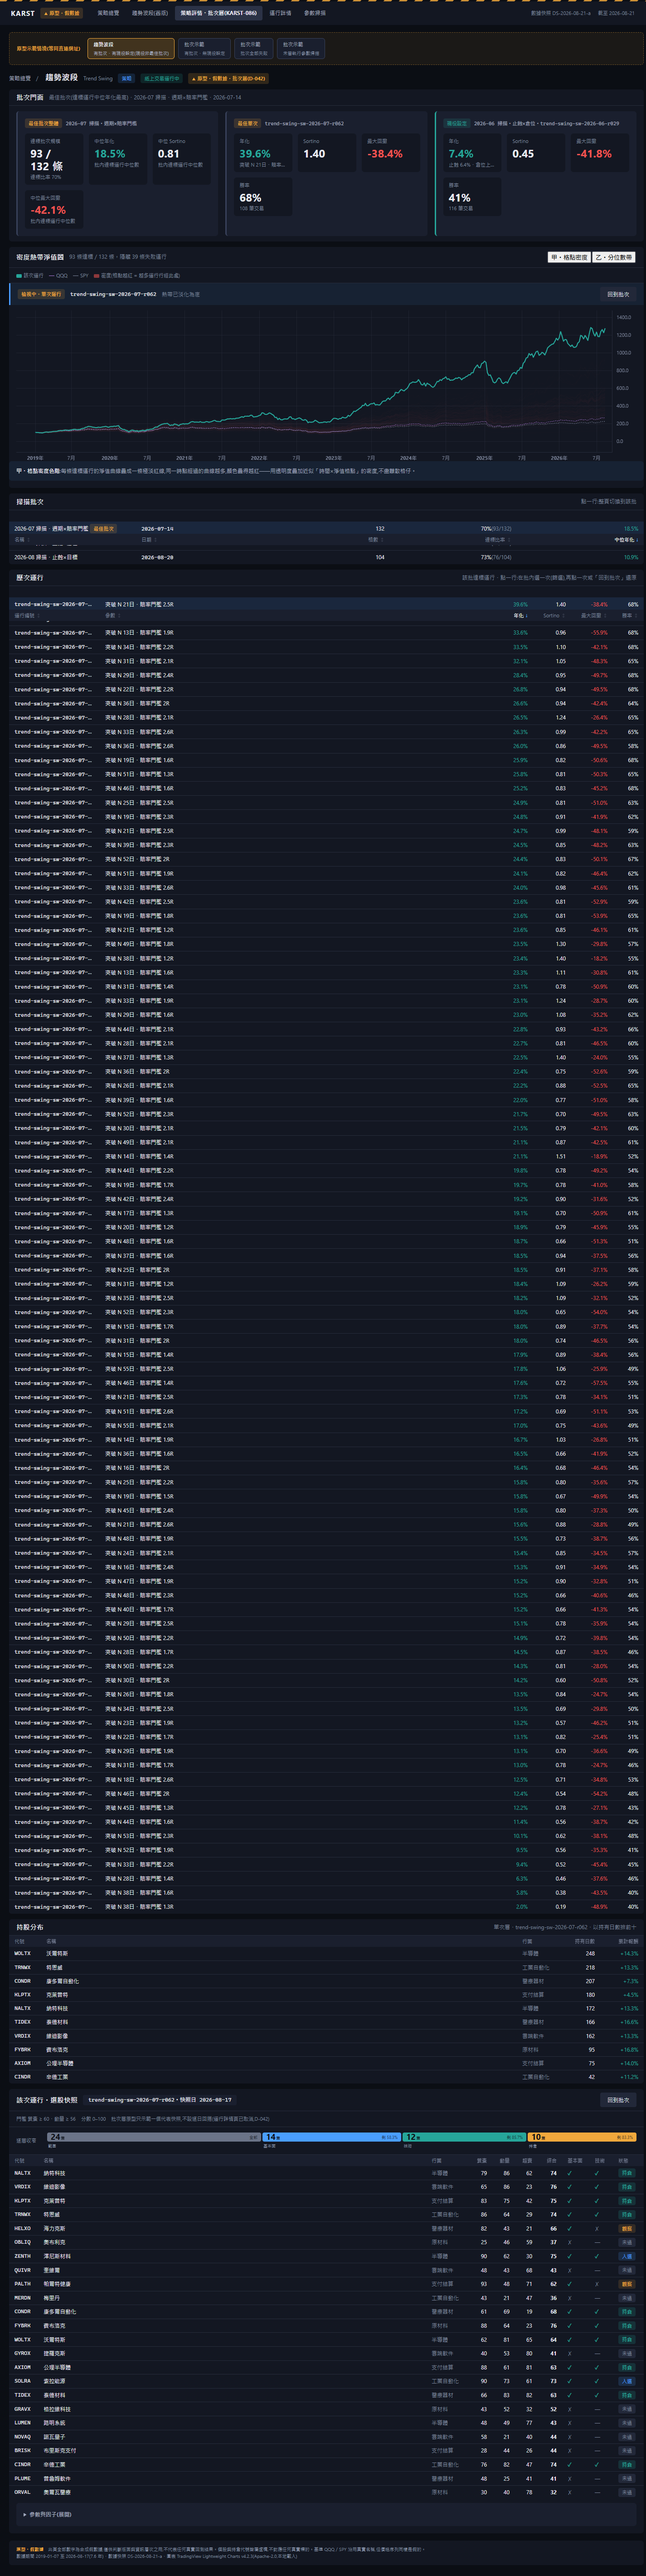
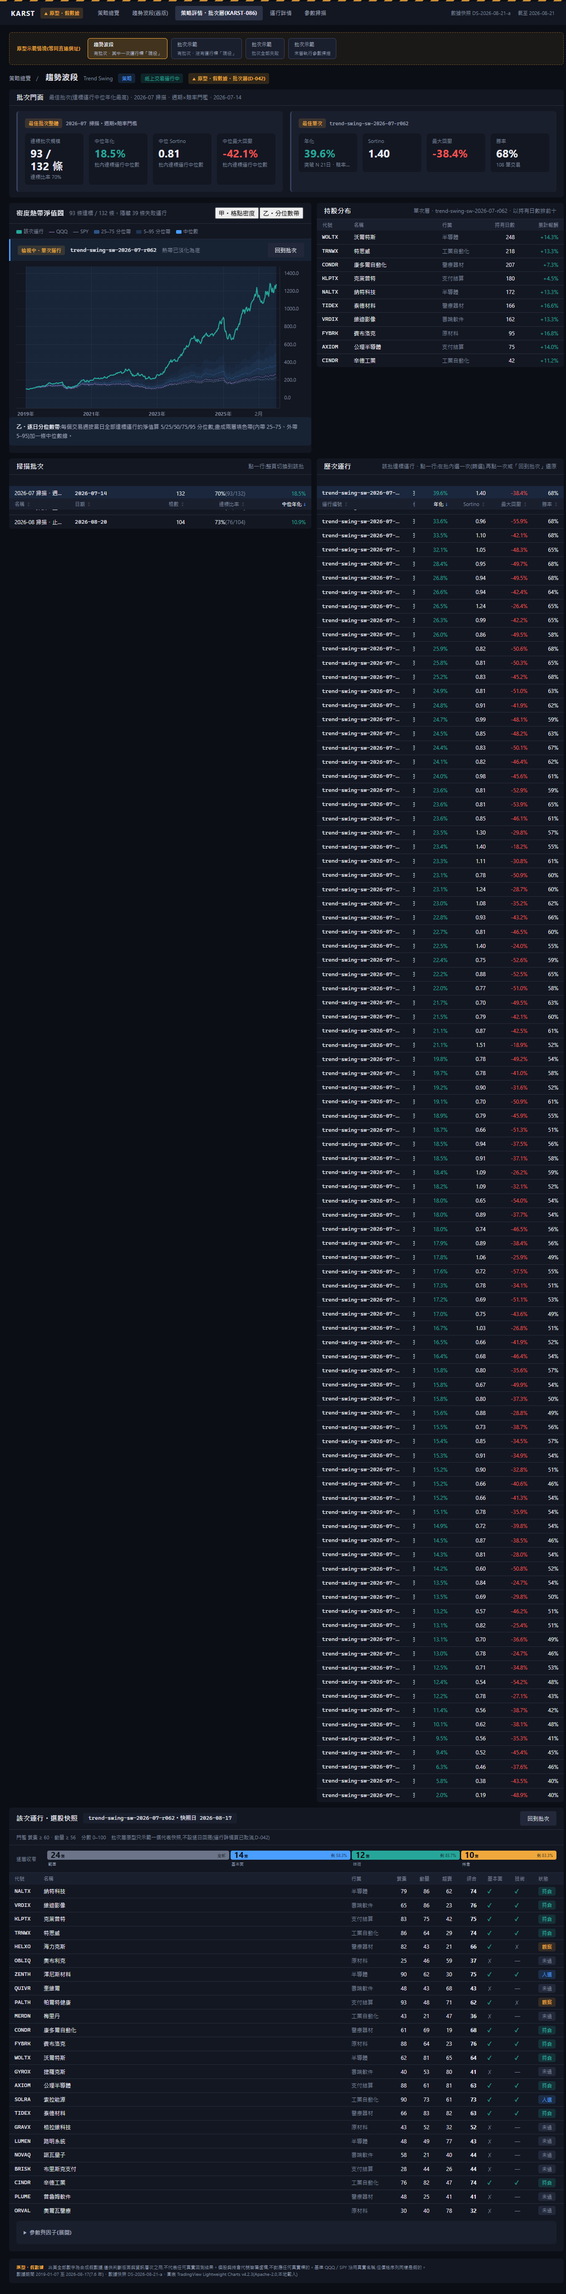
KARST-086 原型三項改版(兩欄併排、去現役設定卡、甲為預設);開票 KARST-087/088(架構審視候選二/五)

Changed region(s): [[0.0, 0.0, 1.0, 0.9939], [0.4876, 0.9628, 0.518, 0.9939]]

diff --git a/prototype/strategy-batch.html b/prototype/strategy-batch.html
@@ -33,7 +33,7 @@
 
   <div class="sp-stack" id="sp-stack" hidden>
 
-    <!-- ============ 門面:最佳批次整體 + 該批最佳單次 + 現役設定(如有) ============ -->
+    <!-- ============ 門面:最佳批次整體 + 該批最佳單次(「現役設定」卡已依用戶 2026-08-30 裁決拿走) ============ -->
     <section class="sp-panel" aria-labelledby="facade-title">
       <div class="sp-head">
         <div class="sp-side">
@@ -44,54 +44,60 @@
       <div class="sp-body" id="facade-body"></div>
     </section>
 
-    <!-- ============ 密度熱帶淨值圖 ============ -->
-    <section class="sp-panel" aria-labelledby="heat-title">
-      <div class="sp-head">
-        <div class="sp-side">
-          <h2 id="heat-title">密度熱帶淨值圖</h2>
-          <span class="section-note" id="heat-note"></span>
-        </div>
-        <div class="heat-toolbar">
-          <div class="variant-switch" id="heat-variant" role="group" aria-label="熱帶畫法">
-            <button type="button" data-v="grid" aria-current="page">甲・格點密度</button>
-            <button type="button" data-v="band">乙・分位數帶</button>
+    <!-- ============ 密度熱帶淨值圖 + 持股分布:左圖右表併排(用戶 2026-08-30 裁決) ============ -->
+    <div class="sp-split">
+
+      <section class="sp-panel sp-sticky" aria-labelledby="heat-title">
+        <div class="sp-head">
+          <div class="sp-side">
+            <h2 id="heat-title">密度熱帶淨值圖</h2>
+            <span class="section-note" id="heat-note"></span>
+          </div>
+          <div class="heat-toolbar">
+            <div class="variant-switch" id="heat-variant" role="group" aria-label="熱帶畫法">
+              <button type="button" data-v="grid" aria-current="page">甲・格點密度</button>
+              <button type="button" data-v="band">乙・分位數帶</button>
+            </div>
           </div>
         </div>
-      </div>
-      <div class="sp-sub" id="heat-legend"></div>
-      <div class="run-context-bar" id="run-context" hidden></div>
-      <div class="sp-body">
-        <div class="sp-chart" id="heat-chart"></div>
-      </div>
-      <div class="variant-note" id="heat-variant-note"></div>
-    </section>
+        <div class="sp-sub" id="heat-legend"></div>
+        <div class="run-context-bar" id="run-context" hidden></div>
+        <div class="sp-body">
+          <div class="sp-chart" id="heat-chart"></div>
+        </div>
+        <div class="variant-note" id="heat-variant-note"></div>
+      </section>
 
-    <!-- ============ 掃描批次表 ============ -->
-    <section class="sp-panel" aria-labelledby="sweeps-title">
-      <div class="sp-head">
-        <h2 id="sweeps-title">掃描批次</h2>
-        <span class="section-note">點一行:整頁切換到該批</span>
-      </div>
-      <div class="sp-body flush" id="sweeps-table"></div>
-    </section>
+      <section class="sp-panel" aria-labelledby="holdings-title">
+        <div class="sp-head">
+          <h2 id="holdings-title">持股分布</h2>
+          <span class="section-note" id="holdings-note"></span>
+        </div>
+        <div class="sp-body flush" id="holdings-table"></div>
+      </section>
 
-    <!-- ============ 歷次運行表 ============ -->
-    <section class="sp-panel" aria-labelledby="runs-title">
-      <div class="sp-head">
-        <h2 id="runs-title">歷次運行</h2>
-        <span class="section-note">該批達標運行・點一行:在批內選一次(篩選),再點一次或「回到批次」還原</span>
-      </div>
-      <div class="sp-body flush" id="runs-table"></div>
-    </section>
+    </div>
 
-    <!-- ============ 持股分布 ============ -->
-    <section class="sp-panel" aria-labelledby="holdings-title">
-      <div class="sp-head">
-        <h2 id="holdings-title">持股分布</h2>
-        <span class="section-note" id="holdings-note"></span>
-      </div>
-      <div class="sp-body flush" id="holdings-table"></div>
-    </section>
+    <!-- ============ 掃描批次表 + 歷次運行表:左批次右運行併排(用戶 2026-08-30 裁決) ============ -->
+    <div class="sp-split">
+
+      <section class="sp-panel sp-sticky" aria-labelledby="sweeps-title">
+        <div class="sp-head">
+          <h2 id="sweeps-title">掃描批次</h2>
+          <span class="section-note">點一行:整頁切換到該批</span>
+        </div>
+        <div class="sp-body flush" id="sweeps-table"></div>
+      </section>
+
+      <section class="sp-panel" aria-labelledby="runs-title">
+        <div class="sp-head">
+          <h2 id="runs-title">歷次運行</h2>
+          <span class="section-note">該批達標運行・點一行:在批內選一次(篩選),再點一次或「回到批次」還原</span>
+        </div>
+        <div class="sp-body flush" id="runs-table"></div>
+      </section>
+
+    </div>
 
     <!-- ============ 批內選次:選股快照 + 漏斗 + 參數/因子摺疊區 ============ -->
     <section class="sp-panel run-detail" id="run-detail" hidden aria-labelledby="run-detail-title">
@@ -184,8 +190,8 @@
 
   /* ---------------- 原型示範情境列 ---------------- */
   var SCEN_LABEL = {
-    'trend-swing': ['趨勢波段', '有批次・有現役設定(現役非最佳批次)'],
-    'scenario-noactive': ['批次示範', '有批次・無現役設定'],
+    'trend-swing': ['趨勢波段', '有批次・其中一次運行標「現役」'],
+    'scenario-noactive': ['批次示範', '有批次・沒有運行標「現役」'],
     'scenario-allfailed': ['批次示範', '批次全部失敗'],
     'scenario-nobatch': ['批次示範', '未曾執行參數掃描'],
   };
@@ -270,12 +276,8 @@
   function renderFacade() {
     var isBest = curSweep.id === DATA.bestSweepId;
     var bestRun = curRuns.filter(function (r) { return r.id === curSweep.bestRunId; })[0] || null;
-    var active = DATA.active;
-    var activeRun = null, activeSweep = null;
-    if (active) {
-      activeSweep = DATA.sweeps.filter(function (s) { return s.id === active.sweepId; })[0];
-      activeRun = (DATA.runsBySweep[active.sweepId] || []).filter(function (r) { return r.id === active.runId; })[0];
-    }
+    /* 「現役設定」門面卡已按用戶 2026-08-30 裁決整格拿走(有/無兩態都拿走)——
+       用戶不認識這個概念,見 assets/data-batch.js 開首註解與 KARST-086 票留言 */
 
     if (!curSweep.passedCount) {
       el.facadeNote.textContent = curSweep.label + '・' + curSweep.date;
@@ -299,22 +301,6 @@
       title: bestRun ? bestRun.id : '—',
       body: bestRun ? kpiRowHtml(runKpis(bestRun)) : '<div class="sp-empty">無資料</div>',
     });
-    if (active) {
-      var sameAsBest = activeRun && bestRun && activeRun.id === bestRun.id;
-      cards.push({
-        badge: '現役設定' + (sameAsBest ? '(與最佳單次相同)' : ''),
-        title: (activeSweep ? activeSweep.label + '・' : '') + (activeRun ? activeRun.id : '(該批查無此運行)'),
-        body: activeRun ? kpiRowHtml(runKpis(activeRun)) : '<div class="sp-empty">現役設定所屬批次目前未顯示,不冒充本頁門面。</div>',
-        warn: true,
-      });
-    } else {
-      cards.push({
-        badge: '現役設定',
-        title: '未設定',
-        body: '<div class="sp-empty">此策略尚未指定現役設定;紙上交易未跟隨任何一次運行。門面因此只顯示批次與批內最佳單次,兩者皆不冒充現役。</div>',
-        warn: true,
-      });
-    }
 
     el.facadeBody.innerHTML = '<div class="facade-grid">' + cards.map(function (c) {
       return '<div class="facade-card' + (c.warn ? ' is-active-setup' : '') + '">' +

diff --git a/prototype/assets/data-batch.js b/prototype/assets/data-batch.js
@@ -7,10 +7,18 @@
    令批次示範與原型其他頁的大市走勢同一形狀,互相對得上。
 
    四個示範策略 = D-042 票面要求的四組畫面狀態:
-     trend-swing         — 正常:有批次、有現役設定(現役不等於最佳批次)
-     scenario-noactive   — 正常:有批次、無現役設定
+     trend-swing         — 正常:有批次、其中一次運行標「現役」
+     scenario-noactive   — 正常:有批次、沒有運行標「現役」
      scenario-allfailed  — 批次存在,但批內全部運行失敗
      scenario-nobatch    — 從未執行參數掃描
+
+   2026-08-30 用戶看過原型後裁決,原話「現役設定 don't know is what」——
+   用戶不認識「現役設定」這個概念,故批次門面那張「現役設定」卡已整個拿走
+   (有現役／無現役兩態都拿走,不只是拿走其中一態)。這份假數據仍然保留
+   active/current 這組欄位(見下面 buildStrategy 的 cfg.active、與各運行物件
+   的 current 旗標),因為歷次運行表裡「現役」那個小標籤(標在某一行運行
+   編號旁邊)沒有被拿走,還要靠這組欄位驅動;「現役設定」這個概念本身
+   也留在詞彙表不動。只是拿走的是「批次門面」那一張獨立卡,不是整個概念。
    ============================================================ */
 (function (g) {
   'use strict';
@@ -326,7 +334,7 @@
   })();
 
   var noActive = buildStrategy({
-    id: 'scenario-noactive', name: '批次示範・無現役設定', en: 'Batch Demo — No Active Setup',
+    id: 'scenario-noactive', name: '批次示範・無運行標現役', en: 'Batch Demo — No Run Marked Active',
     active: null,
     sweeps: [
       { id: 'sw-a', label: '2026-05 掃描・回望期×持倉數', date: '2026-05-10', cells: 96, passedCount: 62,

diff --git a/.kira/tickets/KARST-087-治理收到唯一入口門內(架構審視候選二)治理清單補上數據快照登記,三處凍結程序改為經簽章寫庫,karst-verify-的清白自此覆蓋快照.md b/.kira/tickets/KARST-087-治理收到唯一入口門內(架構審視候選二)治理清單補上數據快照登記,三處凍結程序改為經簽章寫庫,karst-verify-的清白自此覆蓋快照.md
@@ -1,0 +1,28 @@
+---
+id: KARST-087
+title: 治理收到唯一入口門內(架構審視候選二):治理清單補上數據快照登記,三處凍結程序改為經簽章寫庫,karst verify 的清白自此覆蓋快照
+type: task
+createdAt: 2026-08-30
+risk: medium
+model: opus
+fits: 一程
+approvalRequired: false
+dependsOn: [KARST-084]
+claimedBy: null
+epic: V1 建置
+deliverable: KARST-D03
+---
+
+## 工作內容
+
+源自 research/2026-08-30-architecture-review-backend.md 候選二(用戶 2026-08-30 授權:技術性候選全部做)。完成後:(1) 治理清單(D-020 第 4 條)收入數據快照登記(data_snapshot 與其抓取登記),與現有的快照除名一致;(2) 現時繞過簽章直接寫庫的三處凍結程序(價格線、宏觀線、重凍腳本)一律改為經唯一入口的簽章寫入,定義庫本身不再接受無簽章的快照登記;(3) 既有已登記的快照補簽(經唯一入口的補簽命令,留補簽痕跡:誰、幾時、為什麼),補簽後 karst verify 對全部快照核簽章;(4) verify 報告分開列「定義、因子批次、快照」三類各自清白與否。動庫前備份到 C:\Users\Kaho\.claude\backups\karst.sqlite.2026-08-30-087.bak。不加參數預設值;只跑所涉測試檔;含中文檔案只用 Read/Write/Edit;不建目錄連結指向 data/;不碰 karst/web/static/ 與 prototype/。
+
+## 驗收條件
+
+- [ ] 治理清單含數據快照登記;三處凍結程序無一繞過簽章(測試:直接寫庫的快照登記被 verify 點名)
+- [ ] 既有快照已補簽並留痕;verify 三類分列且全部清白
+- [ ] 只跑所涉測試檔;備份已做
+
+## 結果
+
+## 留言

diff --git a/.kira/tickets/KARST-088-因子取值只留一條路(架構審視候選五)「取最新已知值」三份實作合成一個模組,引擎、預測力、網頁取數層全部經同一介面取因子值.md b/.kira/tickets/KARST-088-因子取值只留一條路(架構審視候選五)「取最新已知值」三份實作合成一個模組,引擎、預測力、網頁取數層全部經同一介面取因子值.md
@@ -1,0 +1,28 @@
+---
+id: KARST-088
+title: 因子取值只留一條路(架構審視候選五):「取最新已知值」三份實作合成一個模組,引擎、預測力、網頁取數層全部經同一介面取因子值
+type: task
+createdAt: 2026-08-30
+risk: medium
+model: opus
+fits: 一程
+approvalRequired: false
+dependsOn: [KARST-087]
+claimedBy: null
+epic: V1 建置
+deliverable: KARST-D03
+---
+
+## 工作內容
+
+源自 research/2026-08-30-architecture-review-backend.md 候選五(用戶 2026-08-30 授權:技術性候選全部做)。完成後:(1) 「按知情時點取最新已知因子值」只有一個模組、一個介面(輸入:快照、因子版本、知情時點、實體集合;輸出:因子面板),知情時間閘、可執行時點、不可執行值的處理全部住在它裡面;(2) 定義庫內 factor_value 小批人手值與 Parquet 批次兩個來源都收在該介面之後,呼叫者分不出來源;(3) 引擎的 FactorValueSource、預測力 factorpredict、網頁取數層三處改為呼叫它,舊的三份實作刪除;(4) 一組對照測試:同一快照同一時點,三處呼叫者取回的面板逐格相同;既有 IC 實驗結果(experiments/2026-08-29-factor-ic/summary.json)重跑一次逐位不變。不加參數預設值;只跑所涉測試檔;含中文檔案只用 Read/Write/Edit;不建目錄連結指向 data/;不碰 karst/web/static/ 與 prototype/。
+
+## 驗收條件
+
+- [ ] 只剩一個「最新已知值」模組;三處呼叫者經同一介面;舊實作已刪
+- [ ] 對照測試逐格相同;IC 實驗重跑逐位不變
+- [ ] 只跑所涉測試檔
+
+## 結果
+
+## 留言
